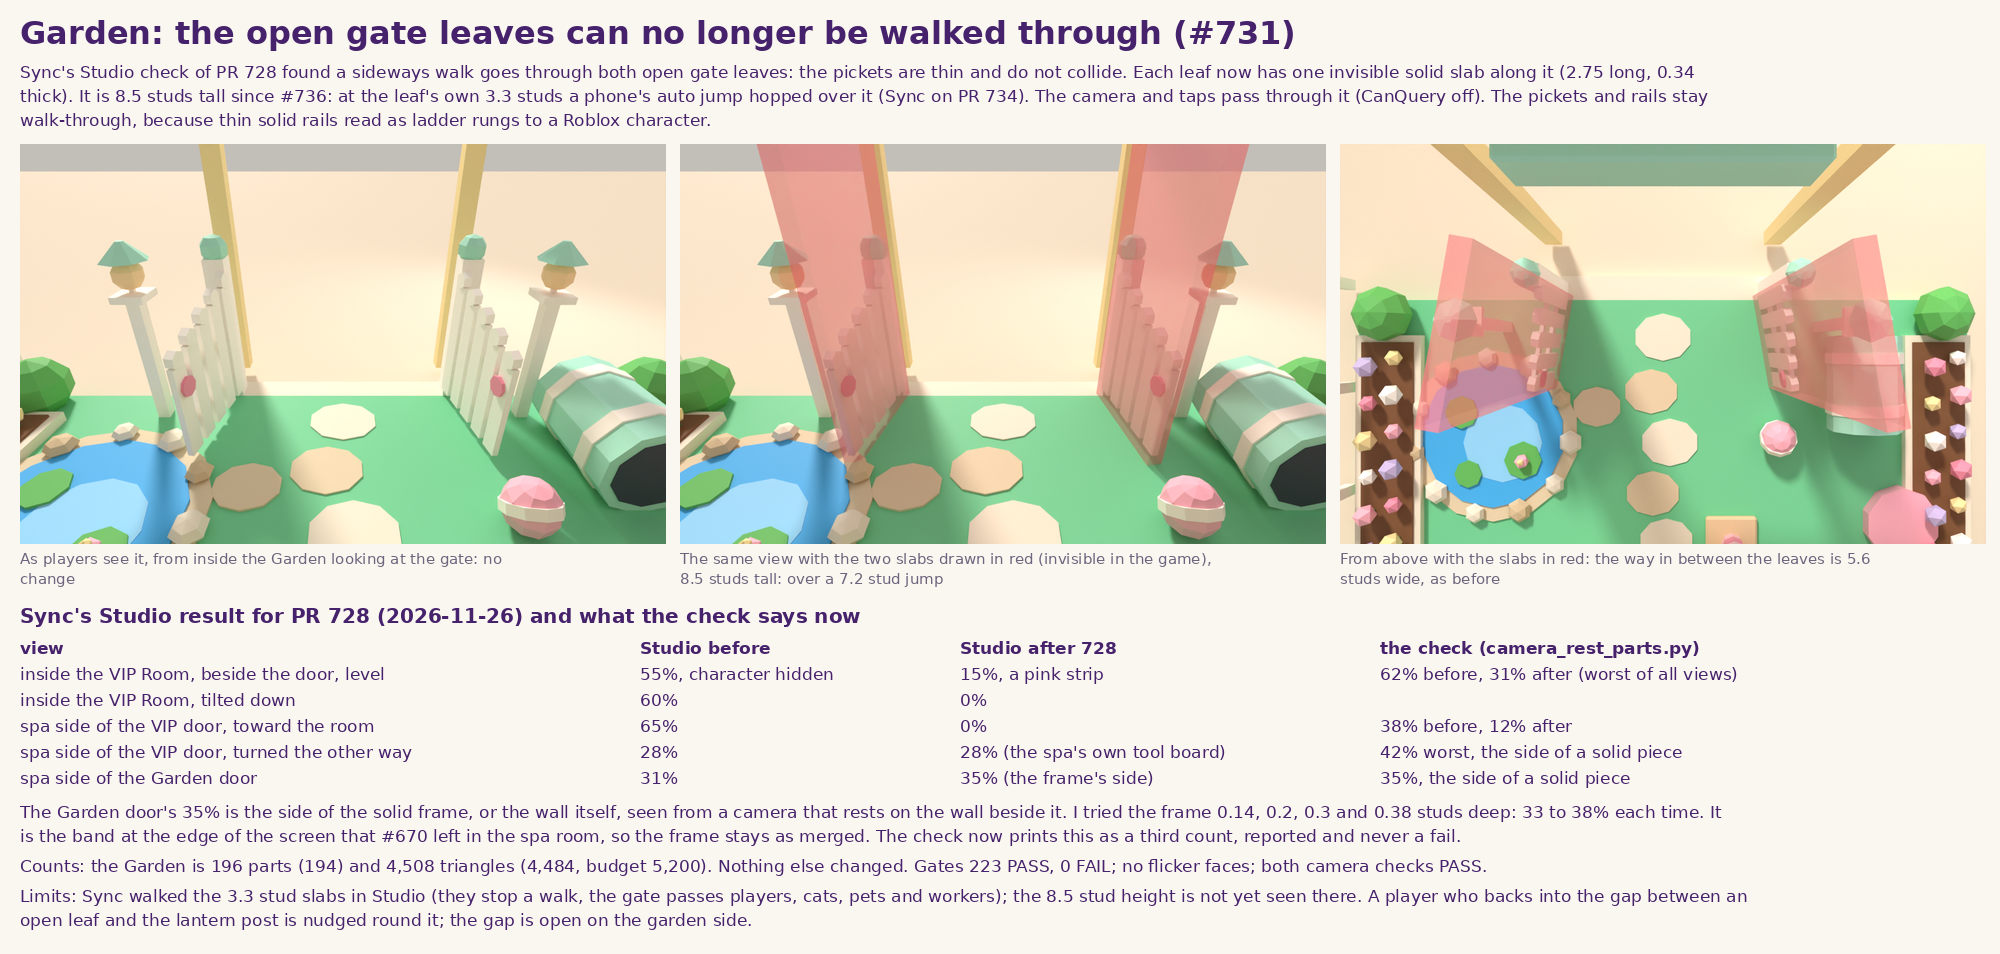
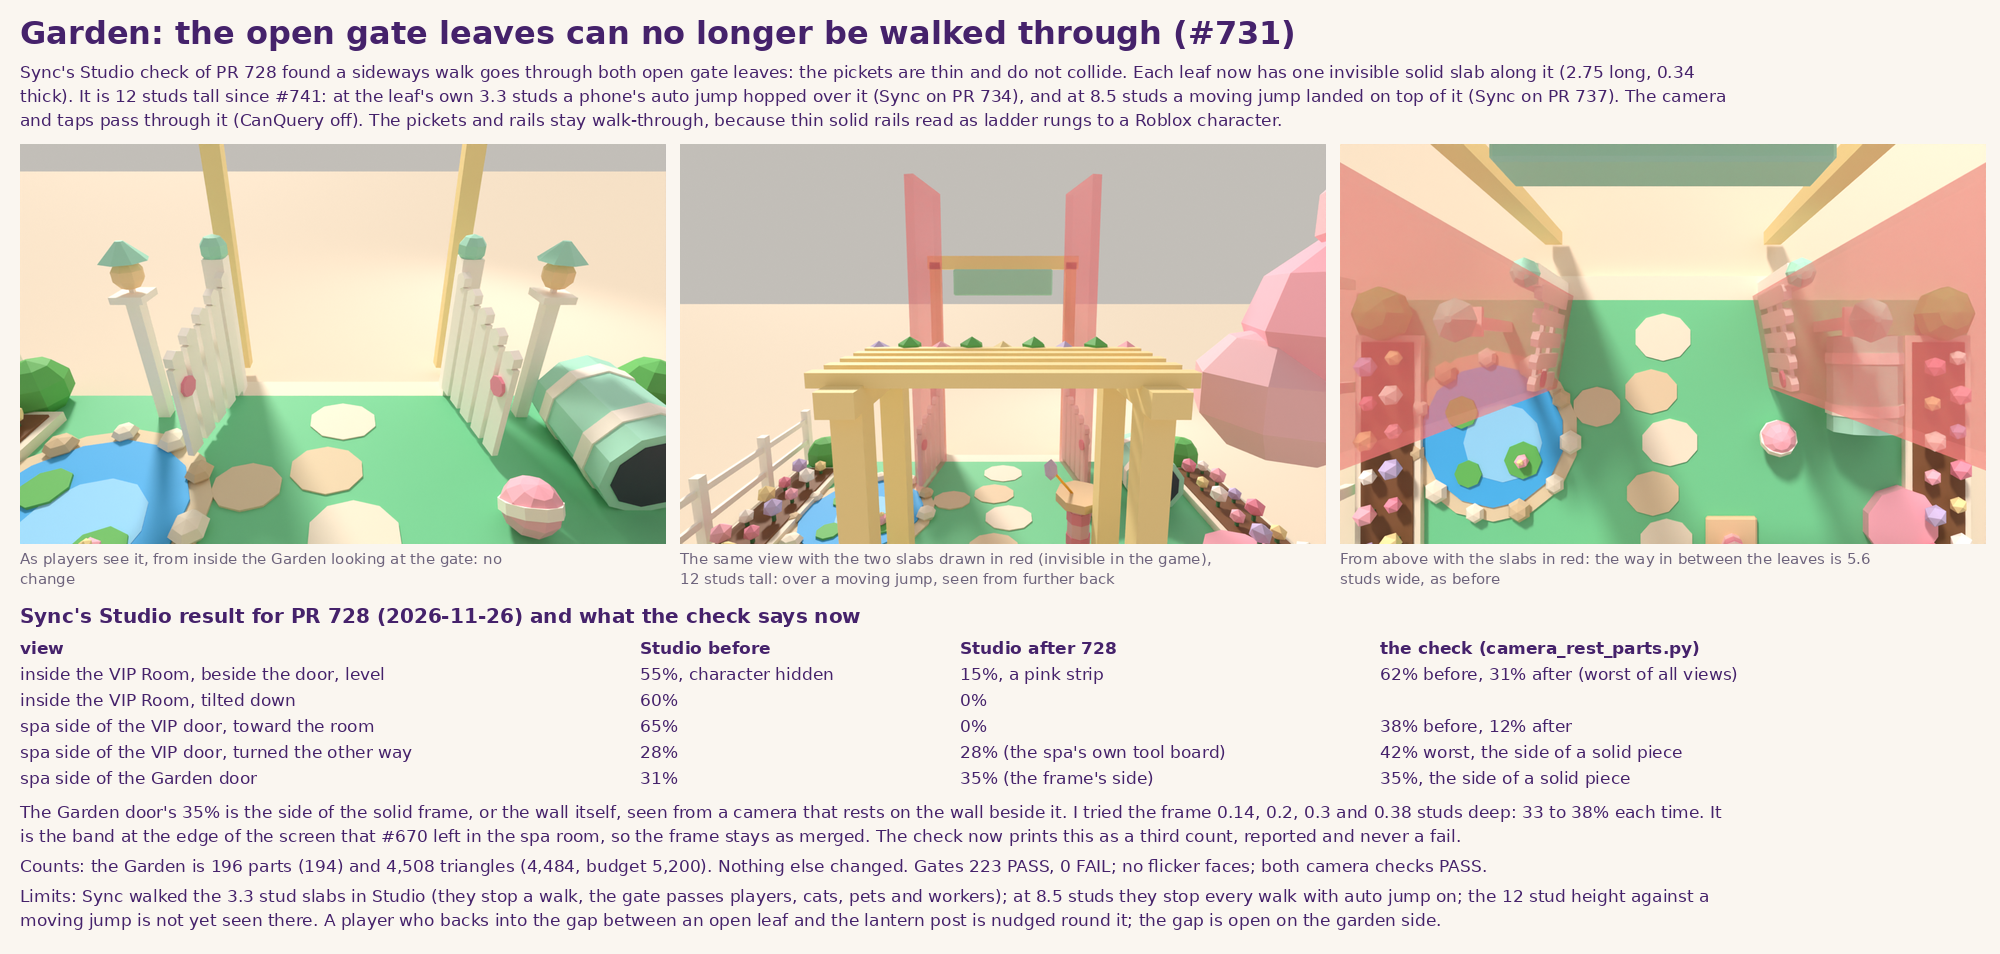
Garden gate: the open leaves' slabs are 12 studs tall, over a moving jump
Sync's Studio recheck of the 8.5 stud slabs: a jump while moving lands on
top of them, since an R15 root part's bottom reaches about 9.3 studs off
the floor and the legs pass through. Closes #741.

Claude-Session: https://claude.ai/code/session_01DW2up3E6M21fYJtCcCtEdr

diff --git a/assets/clean-a-cat/blender/garden.py b/assets/clean-a-cat/blender/garden.py
@@ -142,14 +142,15 @@ def _gate(b, open_):
         _leaf(b, hinge, (-sx * 100 if open_ else 0), sx)
 
 
-SLAB_H = 8.5                      # the open gate leaves' invisible slabs: over Roblox's 7.2 stud jump
+SLAB_H = 12.0                     # the open gate leaves' invisible slabs: over a jumping character's root part
 
 
 def _leaf_barrier(name, mat):
     """An invisible solid slab along each open gate leaf, so a player walks round the leaf and not through its thin
     pickets (which stay walk-through: thin solid rails read as ladder rungs to a Roblox character). CanQuery is
-    off, as on every `_Barrier` here, so the camera and taps pass through it. SLAB_H tall, over a jump: a slab as
-    low as the leaf (3.3 studs) was hopped by a phone's auto jump (#736)."""
+    off, as on every `_Barrier` here, so the camera and taps pass through it. SLAB_H tall: a slab as
+    low as the leaf (3.3 studs) was hopped by a phone's auto jump (#736), and one of 8.5 studs by a moving jump,
+    which lifts an R15 root part's bottom to about 9.3 studs off the floor, legs passing through (#741)."""
     b = Builder()
     for sx in (1, -1):
         turn = -sx * 100

diff --git a/docs/art/style-guide.md b/docs/art/style-guide.md
@@ -171,7 +171,7 @@ Floors, walls, the roof and the window seat collide. Decor (`_Decor`, `_Glow`, `
 
 `assets/clean-a-cat/blender/camera_rest_check.py` tests this without Studio: it rests a camera the way Roblox's pull-in does at 23,672 places along the three walls (every quarter stud, eight heights, five turns, level and looking down) and counts the screen covered by a walk-through part or a piece's edge within half a stud. Up to 8 studs high, views more than half covered went from 328 to 0 and views more than a quarter covered from 872 to 62; the worst is a third of the screen. What is left: a camera resting on bare wall within about 0.3 studs of a piece's edge shows that edge as a band at the side of the screen, widest in the 0.6 stud gaps between the picture frames, and a camera 9 studs up beside a shelf sees the shelf close. The plants and the mint band stay walk-through.
 
-`assets/clean-a-cat/blender/camera_rest_parts.py` is the wider check (#725): it reads the exported Part models, so it tests what the game loads, any model, and several placed together. Run with no arguments it tests the spa room with each of the six back door looks and the inside of the VIP Room. It keeps two counts apart. A view **from inside a solid part** is #670's kind: the camera has come to rest in a wall and draws the back of a walk-through piece on it, one flat colour over the screen. The check fails when such a view covers more than half the screen. A view **beside** a walk-through piece (a shelf, a plant) is the camera resting in the open next to it, as it would next to solid furniture; it is reported and never a fail. Its first run found the VIP Room's lining on the spa wall, the open door leaves and the butter frames round both back doors: with the camera resting at the edge of a door opening, part of its near plane is inside the spa's wall, and those pieces showed their backs over up to 62% of the screen inside the VIP Room (11 rests over half) and 38% on the spa's side. So **a door's frame and anything that lines a wall beside an opening is solid**: the lining is its own object `CleanACat_Area_VipRoom_WallArt`, the open leaves are 0.38 thick and the frames 0.38 deep, over the 0.35 that collides. After that no such view covers more than a quarter of the screen on the spa's side (worst 12%) or half inside the VIP Room (worst 31%, the back of a resident's shelf at head height, which stays walk-through so players can walk under it). Sync's Studio look (2026-11-26, PR 728) confirmed it on the VIP side: the flat fill went from 55 to 65% of the screen to 0 to 15%, and the character was hidden in 1 of 12 views where it had been 7 of 12. What is left is the third count the check prints, **the side of a solid piece**: a camera resting on the wall beside a door frame sees the frame's side, or the wall it hugs, as a band over about a third of the screen (35% at the Garden door in Studio and in the check). A thinner frame does not change it (0.14 to 0.38 studs deep gave 33 to 38%), so the frames stay 0.38. **An open gate or door leaf is never walk-through (#731):** the VIP Room's leaves are thick enough to be solid, and the Garden's picket leaves each have an invisible slab along them (`_Gate_Barrier`, CanQuery off, so the camera and taps pass), because thin solid rails read as ladder rungs to a Roblox character. The slab is 8.5 studs tall, not the leaf's 3.3: **an invisible blocker stands over Roblox's 7.2 stud jump**, or a phone's auto jump hops it (#736, seen by Sync).
+`assets/clean-a-cat/blender/camera_rest_parts.py` is the wider check (#725): it reads the exported Part models, so it tests what the game loads, any model, and several placed together. Run with no arguments it tests the spa room with each of the six back door looks and the inside of the VIP Room. It keeps two counts apart. A view **from inside a solid part** is #670's kind: the camera has come to rest in a wall and draws the back of a walk-through piece on it, one flat colour over the screen. The check fails when such a view covers more than half the screen. A view **beside** a walk-through piece (a shelf, a plant) is the camera resting in the open next to it, as it would next to solid furniture; it is reported and never a fail. Its first run found the VIP Room's lining on the spa wall, the open door leaves and the butter frames round both back doors: with the camera resting at the edge of a door opening, part of its near plane is inside the spa's wall, and those pieces showed their backs over up to 62% of the screen inside the VIP Room (11 rests over half) and 38% on the spa's side. So **a door's frame and anything that lines a wall beside an opening is solid**: the lining is its own object `CleanACat_Area_VipRoom_WallArt`, the open leaves are 0.38 thick and the frames 0.38 deep, over the 0.35 that collides. After that no such view covers more than a quarter of the screen on the spa's side (worst 12%) or half inside the VIP Room (worst 31%, the back of a resident's shelf at head height, which stays walk-through so players can walk under it). Sync's Studio look (2026-11-26, PR 728) confirmed it on the VIP side: the flat fill went from 55 to 65% of the screen to 0 to 15%, and the character was hidden in 1 of 12 views where it had been 7 of 12. What is left is the third count the check prints, **the side of a solid piece**: a camera resting on the wall beside a door frame sees the frame's side, or the wall it hugs, as a band over about a third of the screen (35% at the Garden door in Studio and in the check). A thinner frame does not change it (0.14 to 0.38 studs deep gave 33 to 38%), so the frames stay 0.38. **An open gate or door leaf is never walk-through (#731):** the VIP Room's leaves are thick enough to be solid, and the Garden's picket leaves each have an invisible slab along them (`_Gate_Barrier`, CanQuery off, so the camera and taps pass), because thin solid rails read as ladder rungs to a Roblox character. The slab is 12 studs tall, not the leaf's 3.3: **an invisible blocker stands 12 studs off the floor or reaches a ceiling.** Roblox's jump is 7.2 studs, but that is how far the character rises: a moving jump lifts an R15 root part's bottom to about 9.3 studs off the floor and the legs pass through things, so a phone's auto jump hopped the 3.3 stud slab (#736) and a moving jump landed on top of an 8.5 stud one (#741, both seen by Sync).
 
 `street.py` builds `CleanACat_Area_Street`, which holds everything round the six plots:
 - Grass ground and a pavement in front of the plots, level with their floor (0.5).

diff --git a/docs/concepts/clean-a-cat/README.md b/docs/concepts/clean-a-cat/README.md
@@ -110,4 +110,4 @@ HUD source page: `assets/clean-a-cat/ui/hud.html`. Plans: issues #5 (first sessi
 - `2026-11-26-vip-ten-seats.png`: the check sheet for the VIP Room's ten resident seats (#712): the room with all ten special cats' light twins seated, from the way in, from inside, both back corners close up with the new high corner shelves (seats 9 and 10), from the spa, back at the door and on a phone, with the counts.
 - `2026-11-26-store-art-set-2.png`: the pick sheet for the second set of store art (#106; the owner on 2026-11-25: "use it for now will draft more later to pick from"). Six icons (A the one in use, B to D a special visitor's cat in the bath, E half muddy and half clean, F the muddy stray in his box), each at 150, 96 and 48 px, and six thumbnails (1 and 2 in use, 3 the busy spa with the three workers, 4 five special cats, 5 the stray in his box, 6 a special cat in the bath), each at the small tile's 256 by 144. Drafts, nothing uploaded; the full size files are in the shared folder under `Model-Agent/store-art/set-2/`.
 - `2026-11-26-camera-vip-doors.png`: the check sheet for the camera check of the VIP Room and the two back doors (#725): the VIP Room looking back at its door, an open door leaf, and the VIP and Garden doors from the spa room, with the before and after counts of views from inside a solid part. The lining on the spa wall, the open leaves and the butter door frames are solid now; the look is unchanged.
-- `2026-11-26-garden-gate-slabs.png`: the check sheet for the Garden's open gate leaves (#731): the gate as players see it, the two invisible solid slabs drawn in red from inside and from above, and Sync's Studio numbers for PR 728 beside what `camera_rest_parts.py` gives. The slabs are 8.5 studs tall since #736, over a jump.
+- `2026-11-26-garden-gate-slabs.png`: the check sheet for the Garden's open gate leaves (#731): the gate as players see it, the two invisible solid slabs drawn in red from inside and from above, and Sync's Studio numbers for PR 728 beside what `camera_rest_parts.py` gives. The slabs are 12 studs tall since #741, over a moving jump (8.5 since #736 was not enough).
